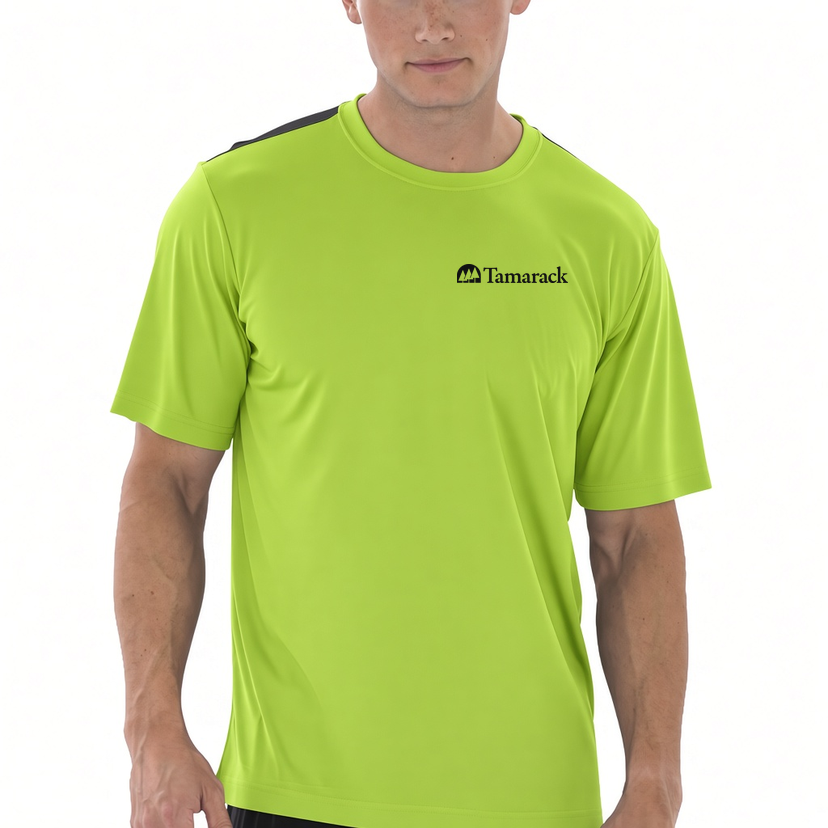
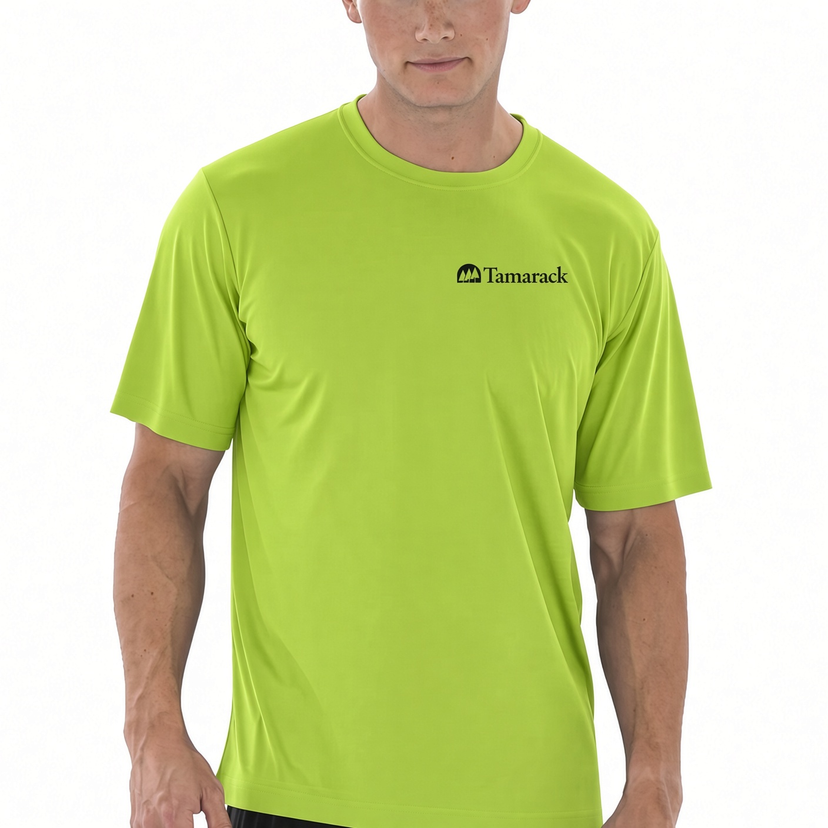
Themed fixes: green button hovers, footer hover, product detail cleanup
- Button hovers Tamarack green, not mn2 blue/olive (btn--primary olive
  #7fa244 -> #23825f; cart/logout already greened)
- Footer localization + links/privacy lighten to white on hover instead of
  the stale light-footer dark-ink pass
- Removed "No Bleed Fabric (NBF)" line from S350/L350 (DB + regen)
- Removed "Tear away label for private branding" from ATC1000/1015/1000L
- Reverted over-broad Lime Shock -> Lime: #a5e82c back to Lime Shock; only
  ATC1000L is Lime via distinct hex #a6e82c
- Replaced TM-4 (S350) lime product image with new export

diff --git a/src/global.css b/src/global.css
@@ -1616,10 +1616,10 @@ img { max-width: 100%; display: block; }
 .btn--primary {
   background: var(--ce-gold);
   color: var(--ce-gray-900);
-  box-shadow: 0 4px 20px rgba(49,117,156,0.3), inset 0 1px 0 rgba(255,255,255,0.15);
+  box-shadow: 0 4px 20px rgba(34,128,95,0.3), inset 0 1px 0 rgba(255,255,255,0.15);
 }
 .btn--primary:hover {
-  background: #7fa244;
+  background: #23825f;
   color: var(--ce-white);
 }
 
@@ -2783,7 +2783,7 @@ body:has(.nav-drawer-overlay) .site-header .hamburger-btn { pointer-events: auto
 }
 
 /* Teaser card color rotation: green, gold, orange */
-.teaser-card { --tc-bg: rgba(255,255,255,0.1); --tc-text: #fff; --tc-tag-bg: rgba(49,117,156,0.15); --tc-tag-border: rgba(49,117,156,0.3); --tc-tag-color: #1B6551; --tc-btn-bg: #1B6551; --tc-btn-color: #fff; --tc-dot-color: rgba(255,255,255,0.4); --tc-glow: #1B6551; }
+.teaser-card { --tc-bg: rgba(255,255,255,0.1); --tc-text: #fff; --tc-tag-bg: rgba(34,128,95,0.15); --tc-tag-border: rgba(34,128,95,0.3); --tc-tag-color: #1B6551; --tc-btn-bg: #1B6551; --tc-btn-color: #fff; --tc-dot-color: rgba(255,255,255,0.4); --tc-glow: #1B6551; }
 
 .teaser-card {
   background: var(--tc-bg);
@@ -3311,7 +3311,7 @@ body:has(.nav-drawer-overlay) .site-header .hamburger-btn { pointer-events: auto
 
 .product-card__badge--green { background: rgba(37, 99, 235,0.08); color: var(--ce-green); }
 .product-card__badge--orange { background: rgba(230,87,12,0.08); color: var(--ce-orange); }
-.product-card__badge--gold { background: rgba(49,117,156,0.12); color: #1e4a66; }
+.product-card__badge--gold { background: rgba(34,128,95,0.12); color: #12463a; }
 
 /* ===== Login Modal ===== */
 .login-overlay {
@@ -4600,7 +4600,7 @@ body:has(.nav-drawer-overlay) .site-header .hamburger-btn { pointer-events: auto
   justify-content: center;
   box-shadow: inset 0 1px 4px rgba(0,0,0,0.08), inset 0 0 6px rgba(0,0,0,0.04);
 }
-@media (hover: hover) { .cart-btn:hover { border-color: var(--ce-gold); background: #eaf3fa; color: #1e4a66; } .cart-btn:hover svg { stroke: #1e4a66; } }
+@media (hover: hover) { .cart-btn:hover { border-color: var(--ce-gold); background: #e8f3ee; color: #12463a; } .cart-btn:hover svg { stroke: #12463a; } }
 .cart-btn svg { stroke: var(--ce-gray-700); width: 17px; height: 17px; }
 .cart-btn--active {
   border-color: #1B6551;
@@ -4610,7 +4610,7 @@ body:has(.nav-drawer-overlay) .site-header .hamburger-btn { pointer-events: auto
 }
 .cart-btn--active svg { stroke: #ffffff; }
 .cart-btn--active .cart-btn__label { color: #ffffff; }
-@media (hover: hover) { .cart-btn--active:hover { border-color: var(--ce-gold); background: #245471; color: #ffffff; } .cart-btn--active:hover svg { stroke: #ffffff; } }
+@media (hover: hover) { .cart-btn--active:hover { border-color: var(--ce-gold); background: #23825f; color: #ffffff; } .cart-btn--active:hover svg { stroke: #ffffff; } }
 /* Wherever the catalog header shows (home + apparel routes), the cart reads as
    an actual button in the bright tab-bar orange on the darker textured header,
    instead of the old brown / transparent outline that blended in. !important
@@ -4627,7 +4627,7 @@ body:has(.home-catalog) .site-header .cart-btn {
 body:has(.home-catalog) .site-header .cart-btn svg { stroke: #ffffff !important; }
 body:has(.home-catalog) .site-header .cart-btn .cart-btn__label { color: #ffffff !important; }
 @media (hover: hover) {
-  body:has(.home-catalog) .site-header .cart-btn:hover { border-color: var(--ce-gold) !important; background: #245471 !important; color: #ffffff !important; }
+  body:has(.home-catalog) .site-header .cart-btn:hover { border-color: var(--ce-gold) !important; background: #23825f !important; color: #ffffff !important; }
   body:has(.home-catalog) .site-header .cart-btn:hover svg { stroke: #ffffff !important; }
 }
 /* Logout button in site-header gets a subtle green tint to match the other accented buttons */
@@ -4670,8 +4670,8 @@ body:has(.home-catalog) .site-header .cart-btn .cart-btn__label { color: #ffffff
 }
 .logout-btn svg { stroke: var(--ce-gray-700); width: 17px; height: 17px; }
 @media (hover: hover) {
-  .logout-btn:hover { border-color: var(--ce-gold); background: #eaf3fa; color: #1e4a66; }
-  .logout-btn:hover svg { stroke: #1e4a66; }
+  .logout-btn:hover { border-color: var(--ce-gold); background: #e8f3ee; color: #12463a; }
+  .logout-btn:hover svg { stroke: #12463a; }
 }
 /* ===== Mobile Apparel Link ===== */
 .site-header__apparel-link {
@@ -5119,8 +5119,8 @@ body:has(.home-catalog) .site-header .cart-btn .cart-btn__label { color: #ffffff
   bottom: 1.5rem;
   left: 50%;
   transform: translateX(-50%);
-  background: #eaf3fa;
-  color: #1e4a66;
+  background: #e8f3ee;
+  color: #12463a;
   border: 1px solid var(--ce-gold);
   padding: 0.6rem 1.5rem;
   font-size: 0.85rem;
@@ -5632,13 +5632,13 @@ body:has(.home-catalog) .site-header .cart-btn .cart-btn__label { color: #ffffff
 .product-modal__add.btn--secondary {
   background: var(--ce-white);
   border: 1.5px solid #1B6551;
-  color: #1e4a66;
-  box-shadow: 0 4px 16px rgba(49,117,156,0.14);
+  color: #12463a;
+  box-shadow: 0 4px 16px rgba(34,128,95,0.14);
 }
 .product-modal__add.btn--secondary:hover {
   background: linear-gradient(135deg, #ffd25b 0%, #ffe2a6 100%);
   border-color: #f0bf3f;
-  color: #1e4a66;
+  color: #12463a;
   transform: translateY(-2px);
   box-shadow: 0 10px 26px rgba(240,191,63,0.4);
 }
@@ -5960,9 +5960,9 @@ body:has(.home-catalog) .site-header .cart-btn .cart-btn__label { color: #ffffff
   color: var(--ce-green);
 }
 .cart-drawer__error {
-  background: #eaf3fa;
+  background: #e8f3ee;
   border: 1px solid var(--ce-gold);
-  color: #1e4a66;
+  color: #12463a;
   padding: 8px 12px;
   border-radius: 0;
   font-size: 0.78rem;
@@ -6000,7 +6000,7 @@ body:has(.home-catalog) .site-header .cart-btn .cart-btn__label { color: #ffffff
 .checkout-modal__field--error input,
 .checkout-modal__field--error select {
   border-color: #d97706;
-  background: #eaf3fa;
+  background: #e8f3ee;
 }
 .checkout-modal__field--error input:focus,
 .checkout-modal__field--error select:focus {
@@ -7128,11 +7128,11 @@ details[open] > .cart-drawer__checkout-title::after {
   .site-header--hero-hidden .locale-btn { color: rgba(255,255,255,0.85); border-color: rgba(255,255,255,0.2); background: transparent; border-radius: var(--ce-btn-radius); }
   .site-header--hero-hidden .locale-btn:hover { color: rgba(255,255,255,0.85); border-color: rgba(255,255,255,0.2); background: transparent; }
   .site-header--hero-hidden .cart-btn { color: rgba(255,255,255,0.85); border-color: rgba(255,255,255,0.2); background: transparent; border-radius: var(--ce-btn-radius); }
-  .site-header--hero-hidden .cart-btn:hover { color: var(--ce-gold); border-color: var(--ce-gold); background: rgba(49,117,156,0.12); }
+  .site-header--hero-hidden .cart-btn:hover { color: var(--ce-gold); border-color: var(--ce-gold); background: rgba(34,128,95,0.12); }
   .site-header--hero-hidden .cart-btn svg { stroke: rgba(255,255,255,0.85); }
   .site-header--hero-hidden .cart-btn:hover svg { stroke: var(--ce-gold); }
   .site-header--hero-hidden .logout-btn { color: rgba(255,255,255,0.85); border-color: rgba(255,255,255,0.2); background: transparent; border-radius: var(--ce-btn-radius); }
-  .site-header--hero-hidden .logout-btn:hover { color: var(--ce-gold); border-color: var(--ce-gold); background: rgba(49,117,156,0.12); }
+  .site-header--hero-hidden .logout-btn:hover { color: var(--ce-gold); border-color: var(--ce-gold); background: rgba(34,128,95,0.12); }
   .site-header--hero-hidden .logout-btn svg { stroke: rgba(255,255,255,0.85); }
   .site-header--hero-hidden .logout-btn:hover svg { stroke: var(--ce-gold); }
   .site-header--hero-hidden .site-header__apparel-link { color: rgba(255,255,255,0.8); border-color: rgba(255,255,255,0.2); }
@@ -7145,11 +7145,11 @@ details[open] > .cart-drawer__checkout-title::after {
   .site-header--hero-hidden.site-header--hero-visible .locale-btn { color: var(--ce-gray-700); background: rgba(0,0,0,0.03); border: 1px solid var(--ce-gray-200); border-radius: var(--ce-btn-radius); }
   .site-header--hero-hidden.site-header--hero-visible .locale-btn:hover { color: var(--ce-gray-700); background: rgba(0,0,0,0.03); border-color: var(--ce-gray-200); }
   .site-header--hero-hidden.site-header--hero-visible .cart-btn { background: #1B6551; border: 1px solid #1B6551; border-radius: var(--ce-btn-radius); color: #ffffff; }
-  .site-header--hero-hidden.site-header--hero-visible .cart-btn:hover { color: #ffffff; background: #245471; border-color: #245471; }
+  .site-header--hero-hidden.site-header--hero-visible .cart-btn:hover { color: #ffffff; background: #23825f; border-color: #23825f; }
   .site-header--hero-hidden.site-header--hero-visible .cart-btn svg { stroke: #ffffff; }
   .site-header--hero-hidden.site-header--hero-visible .cart-btn:hover svg { stroke: #ffffff; }
   .site-header--hero-hidden.site-header--hero-visible .cart-btn.cart-btn--active { background: #1B6551; border-color: #1B6551; color: #ffffff; }
-  .site-header--hero-hidden.site-header--hero-visible .cart-btn.cart-btn--active:hover { background: #245471; border-color: #245471; color: #ffffff; }
+  .site-header--hero-hidden.site-header--hero-visible .cart-btn.cart-btn--active:hover { background: #23825f; border-color: #23825f; color: #ffffff; }
   .site-header--hero-hidden.site-header--hero-visible .cart-btn.cart-btn--active svg { stroke: #ffffff; }
   .site-header--hero-hidden.site-header--hero-visible .cart-btn.cart-btn--active:hover svg { stroke: #ffffff; }
   .site-header--hero-hidden.site-header--hero-visible .logout-btn { background: rgba(0,0,0,0.04); border: 1px solid rgba(0,0,0,0.12); border-radius: var(--ce-btn-radius); color: var(--ce-gray-900); box-shadow: inset 0 1px 4px rgba(0,0,0,0.06), inset 0 0 6px rgba(0,0,0,0.03); }
@@ -13728,7 +13728,7 @@ body:has(.product-fullscreen) { overflow: hidden; }
   body:has(.home-catalog) .site-header .cart-btn.cart-btn--active { background: #1B6551 !important; border: none !important; color: #ffffff !important; box-shadow: none !important; }
   body .site-header .cart-btn:hover,
   body:has(.home-catalog) .site-header .cart-btn:hover,
-  body:has(.home-catalog) .site-header .cart-btn.cart-btn--active:hover { background: #245471 !important; color: #ffffff !important; }
+  body:has(.home-catalog) .site-header .cart-btn.cart-btn--active:hover { background: #23825f !important; color: #ffffff !important; }
   body .site-header .cart-btn svg,
   body:has(.home-catalog) .site-header .cart-btn svg { stroke: #ffffff !important; }
   body .site-header .cart-btn .cart-btn__label,
@@ -14347,7 +14347,7 @@ body .site-header .cart-btn:hover,
 body:has(.home-catalog) .site-header .cart-btn:hover,
 body .site-header .site-header__search:hover,
 body .site-header .site-header__search:focus-within {
-  background: #245471 !important;
+  background: #23825f !important;
   color: #fff !important;
   box-shadow: inset 0 0 0 1px rgba(0, 0, 0, 0.16) !important;
 }
@@ -14360,7 +14360,7 @@ body:has(.home-catalog) .site-header .cart-btn svg { stroke: #fff !important; }
 body .site-header .cart-btn .cart-btn__label,
 body:has(.home-catalog) .site-header .cart-btn .cart-btn__label { color: #fff !important; }
 body .site-header .cart-btn:hover,
-body:has(.home-catalog) .site-header .cart-btn:hover { background: #245471 !important; color: #fff !important; box-shadow: inset 0 0 0 1px rgba(0,0,0,0.16) !important; }
+body:has(.home-catalog) .site-header .cart-btn:hover { background: #23825f !important; color: #fff !important; box-shadow: inset 0 0 0 1px rgba(0,0,0,0.16) !important; }
 body:has(.home-catalog) .site-header .cart-btn:hover svg { stroke: #fff !important; }
 /* My Cart: no white outline (clean fill like a solid header control). */
 body .site-header .cart-btn,
@@ -14476,7 +14476,7 @@ body .site-header__inner { border-top-left-radius: 0 !important; border-top-righ
   }
   body .site-header .cart-btn:hover,
   body:has(.home-catalog) .site-header .cart-btn:hover,
-  body .site-header .cart-btn.cart-btn--active:hover { background: #245471 !important; color: #ffffff !important; }
+  body .site-header .cart-btn.cart-btn--active:hover { background: #23825f !important; color: #ffffff !important; }
   body .site-header .cart-btn svg,
   body:has(.home-catalog) .site-header .cart-btn svg { stroke: #ffffff !important; }
   body .site-header .cart-btn .cart-btn__label,
@@ -14980,13 +14980,13 @@ html { background: rgb(223, 226, 230) !important; }
   text-shadow: none;
 }
 .cart-drawer__order-btn.btn.btn--primary:hover {
-  background: #245471;
-  border-color: #245471;
+  background: #23825f;
+  border-color: #23825f;
   color: #fff;
   box-shadow: none;
 }
 .cart-drawer__order-btn.btn.btn--primary:active {
-  background: #1e4a66;
+  background: #12463a;
   box-shadow: none;
   transform: translateY(1px);
 }
@@ -15106,9 +15106,11 @@ html body header.site-header--tabs-stuck {
   background-image: none !important;
 }
 /* Footer: white link/text (email, privacy, localization) */
-.site-footer, .site-footer a, .site-footer .locale-btn, .site-footer__col a { color: rgba(255,255,255,0.9) !important; }
-.site-footer a:hover, .site-footer .locale-btn:hover { color: var(--ce-gold) !important; }
-.site-footer .locale-btn { border-color: rgba(255,255,255,0.3) !important; }
+.site-footer, .site-footer a, .site-footer .locale-btn, .site-footer__locale, .site-footer__privacy-link, .site-footer__col a { color: rgba(255,255,255,0.9) !important; }
+/* Hover lightens to full white — never darkens (the old light-footer pass forced
+   locale/privacy to a dark ink on hover; footer is dark green now). */
+.site-footer a:hover, .site-footer .locale-btn:hover, .site-footer__locale:hover, .site-footer__privacy-link:hover { color: #fff !important; }
+.site-footer .locale-btn, .site-footer__locale { border-color: rgba(255,255,255,0.3) !important; }
 /* A touch of breathing room below the footer */
 .site-footer { margin-bottom: 1.25rem; }
 

diff --git a/src/routes/apparel/products.ts b/src/routes/apparel/products.ts
@@ -20,7 +20,7 @@ export const allProducts = [
       "/skus/ATC1000-safetygreen-tamarack.png"
     ],
     "material": "100% cotton",
-    "details": "Compacted yarns to minimize shrinkage, Taped neck and shoulders, Tear away label for private branding, Double needle cover stitch at collar/sleeve/hem, 1x1 rib knit collar, Classic fit, OEKO-TEX® STANDARD 100 certified, #ATC1000"
+    "details": "Compacted yarns to minimize shrinkage, Taped neck and shoulders, Double needle cover stitch at collar/sleeve/hem, 1x1 rib knit collar, Classic fit, OEKO-TEX® STANDARD 100 certified, #ATC1000"
   },
   {
     "sku": "TM-2",
@@ -39,7 +39,7 @@ export const allProducts = [
       "/skus/ATC1015-safetygreen-tamarack.png"
     ],
     "material": "100% cotton",
-    "details": "Compacted yarns to minimize shrinkage, Taped neck and shoulders, Tear away label for private branding, 1x1 rib knit collar, Rib knit cuffs, Double needle cover stitch at sleeve & bottom hem, Classic fit, OEKO-TEX® STANDARD 100 certified, #ATC1015"
+    "details": "Compacted yarns to minimize shrinkage, Taped neck and shoulders, 1x1 rib knit collar, Rib knit cuffs, Double needle cover stitch at sleeve & bottom hem, Classic fit, OEKO-TEX® STANDARD 100 certified, #ATC1015"
   },
   {
     "sku": "TM-3",
@@ -75,7 +75,7 @@ export const allProducts = [
       "/skus/S350-limeshock-tamarack.png"
     ],
     "material": "100% performance polyester interlock",
-    "details": "Wicking technology, No Bleed Fabric (NBF) cationic dye process for easy printing, Side seamed, Breathable, Classic fit, #S350"
+    "details": "Wicking technology, Side seamed, Breathable, Classic fit, #S350"
   },
   {
     "sku": "TM-5",
@@ -94,7 +94,7 @@ export const allProducts = [
       "/skus/L350-limeshock-tamarack.png"
     ],
     "material": "100% performance polyester interlock",
-    "details": "Wicking technology, No Bleed Fabric (NBF) cationic dye process for easy printing, Side seamed, Contoured fit, Breathable, #L350"
+    "details": "Wicking technology, Side seamed, Contoured fit, Breathable, #L350"
   },
   {
     "sku": "TM-6",
@@ -104,7 +104,7 @@ export const allProducts = [
     "badge": "",
     "colors": [
       "#1a1a18",
-      "#a5e82c"
+      "#a6e82c"
     ],
     "price": 4,
     "img": "/skus/ATC1000L-tamarack.png",
@@ -113,7 +113,7 @@ export const allProducts = [
       "/skus/ATC1000L-limeshock-tamarack.png"
     ],
     "material": "100% cotton",
-    "details": "Compacted yarns to minimize shrinkage, Taped neck and shoulders, Tear away label for private branding, Double needle cover stitch at collar/sleeve/hem, 1x1 rib knit collar, Side seamed, OEKO-TEX® STANDARD 100 certified, #ATC1000L"
+    "details": "Compacted yarns to minimize shrinkage, Taped neck and shoulders, Double needle cover stitch at collar/sleeve/hem, 1x1 rib knit collar, Side seamed, OEKO-TEX® STANDARD 100 certified, #ATC1000L"
   },
   {
     "sku": "TM-7",
@@ -263,7 +263,11 @@ const colorNames: Record<string, Record<string, string>> = {
   "#a8c4d8": { en: "Light Blue", fr: "Bleu clair" },
   "#a9682f": { en: "Brown", fr: "Brun" },
   "#b0b0b0": { en: "Grey", fr: "Gris" },
-  "#a5e82c": { en: "Lime", fr: "Lime" },
+  "#a5e82c": { en: "Lime Shock", fr: "Vert lime" },
+  // ATC1000L's lime is marketed as plain "Lime" — near-identical swatch, distinct
+  // name, so it gets its own hex to break the shared-hex → shared-name tie with
+  // the S350/L350 "Lime Shock" tees.
+  "#a6e82c": { en: "Lime", fr: "Lime" },
   "#b6e021": { en: "Safety Green", fr: "Vert sécurité" },
   "#b8ad97": { en: "Khaki", fr: "Kaki" },
   "#ab8f66": { en: "Dark Khaki", fr: "Kaki foncé" },

diff --git a/scripts/fetch-products.ts b/scripts/fetch-products.ts
@@ -132,7 +132,11 @@ const colorNames: Record<string, Record<string, string>> = {
   "#a8c4d8": { en: "Light Blue", fr: "Bleu clair" },
   "#a9682f": { en: "Brown", fr: "Brun" },
   "#b0b0b0": { en: "Grey", fr: "Gris" },
-  "#a5e82c": { en: "Lime", fr: "Lime" },
+  "#a5e82c": { en: "Lime Shock", fr: "Vert lime" },
+  // ATC1000L's lime is marketed as plain "Lime" — near-identical swatch, distinct
+  // name, so it gets its own hex to break the shared-hex → shared-name tie with
+  // the S350/L350 "Lime Shock" tees.
+  "#a6e82c": { en: "Lime", fr: "Lime" },
   "#b6e021": { en: "Safety Green", fr: "Vert sécurité" },
   "#b8ad97": { en: "Khaki", fr: "Kaki" },
   "#ab8f66": { en: "Dark Khaki", fr: "Kaki foncé" },
